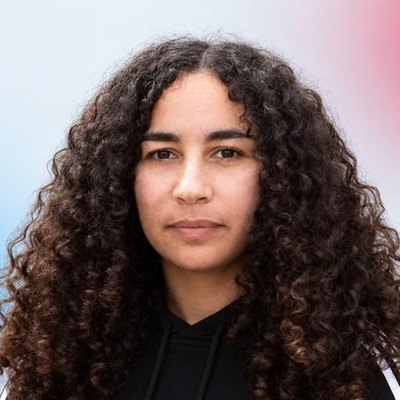
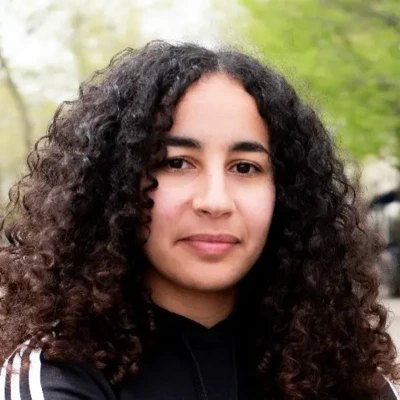
Photo officielle de Selma Labib (NPA-Révolutionnaires)
Claude-Session: https://claude.ai/code/session_011Zphczrgd24XAF7nb44CRM

diff --git a/sw.js b/sw.js
@@ -1,4 +1,4 @@
-const CACHE = 'presidentielle-2027-v142';
+const CACHE = 'presidentielle-2027-v143';
 const IMG = 'nous-votons-images';
 const FILES = ['./', 'index.html', 'manifest.json', 'icon-180.png', 'icon-192.png', 'icon-512.png', 'icon-maskable-512.png', 'logo-header.svg', 'logo-appli.svg', 'favicon-32.png'];
 self.addEventListener('install', (e) => { e.waitUntil(caches.open(CACHE).then((c) => c.addAll(FILES.map((f) => new Request(f, { cache: 'reload' }))))); self.skipWaiting(); });
